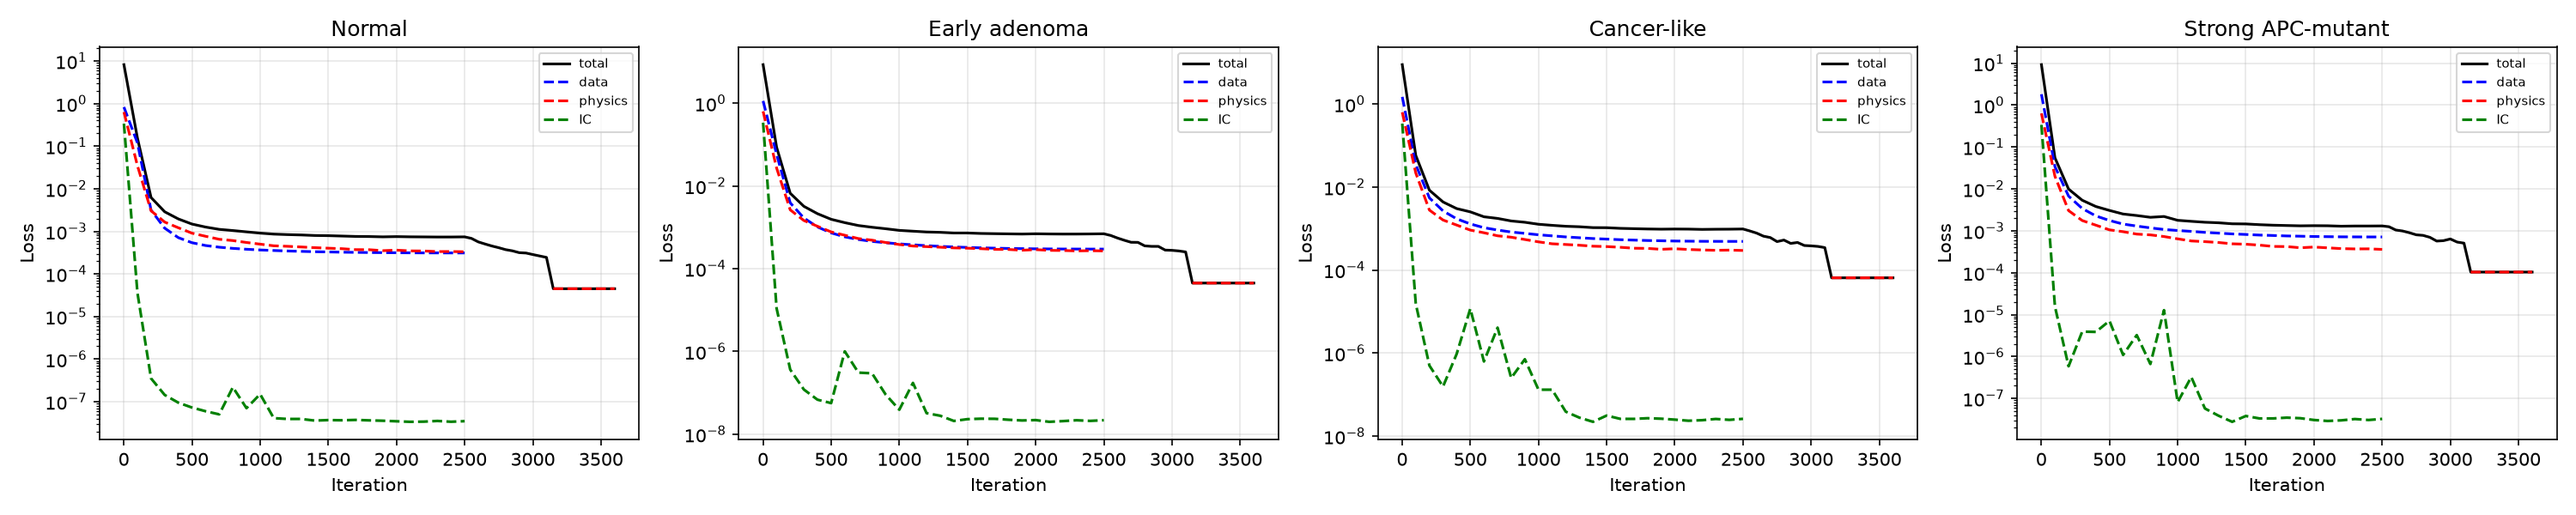
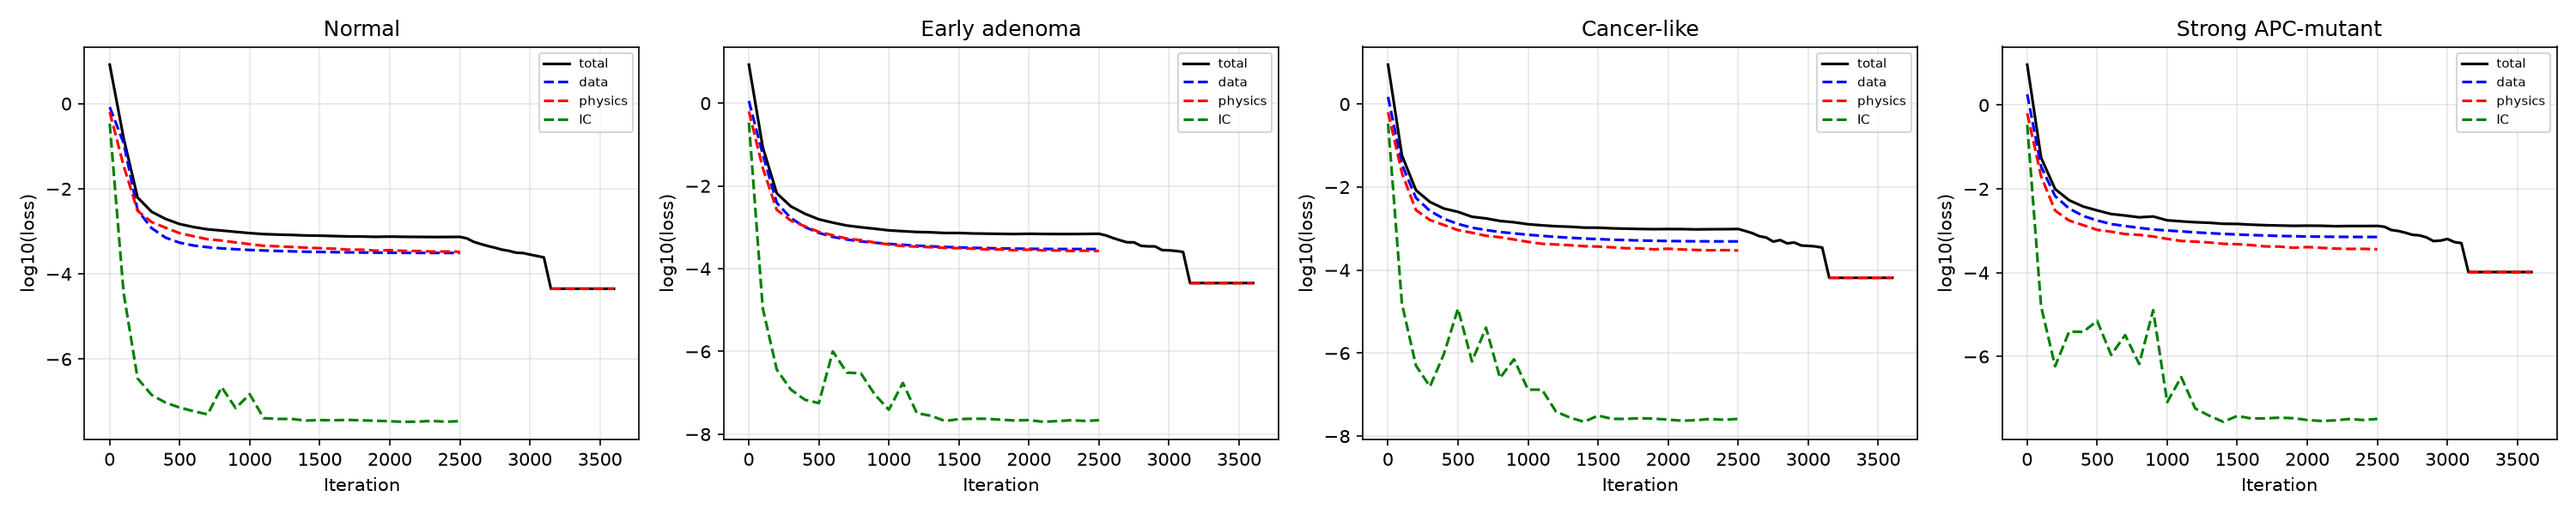
multicond-better: plot log10(loss) on linear axis + standalone re-plot entrypoint
plot_losses now shows log10(loss) with a linear ordinate (labels read
-1,-2,-3) instead of raw loss on a log-scaled axis. Add a __main__ that
reloads saved *_history.json and re-renders inv_losses.png without
retraining. Regenerated inv_losses.png for run 20260701_052831.

diff --git a/PINN-inverse-multicond-better/plotting.py b/PINN-inverse-multicond-better/plotting.py
@@ -163,14 +163,21 @@ def plot_param_error(all_hist, true_params):
 
 
 def plot_losses(all_hist):
+    """log10(loss) on a LINEAR y-axis (tick labels read -1, -2, -3 ...),
+    rather than the raw loss on a log-scaled axis. Same information, but the
+    ordinate is literally log(loss) as requested."""
+    def _log10(x):
+        # guard against zeros/negatives in the recorded losses
+        return np.log10(np.clip(np.asarray(x, dtype=float), 1e-300, None))
+
     n = len(all_hist)
     fig, axes = plt.subplots(1, n, figsize=(5*n, 4), squeeze=False)
     for ax, (name, h) in zip(axes[0], all_hist.items()):
-        ax.semilogy(h["epoch"], h["loss"], "k-",  label="total")
-        ax.semilogy(h["epoch"], h["Ld"],   "b--", label="data")
-        ax.semilogy(h["epoch"], h["Lp"],   "r--", label="physics")
-        ax.semilogy(h["epoch"], h["Lic"],  "g--", label="IC")
-        ax.set_xlabel("Iteration"); ax.set_ylabel("Loss")
+        ax.plot(h["epoch"], _log10(h["loss"]), "k-",  label="total")
+        ax.plot(h["epoch"], _log10(h["Ld"]),   "b--", label="data")
+        ax.plot(h["epoch"], _log10(h["Lp"]),   "r--", label="physics")
+        ax.plot(h["epoch"], _log10(h["Lic"]),  "g--", label="IC")
+        ax.set_xlabel("Iteration"); ax.set_ylabel("log10(loss)")
         ax.set_title(name); ax.legend(fontsize=7); ax.grid(True, alpha=0.3)
     fig.tight_layout(); fig.savefig("inv_losses.png", dpi=150)
     plt.close(fig)
@@ -346,3 +353,29 @@ def report_identifiability(recovered, true_params, sens, out_dir="."):
     print(f"wrote {os.path.join(out_dir, 'identifiability.csv')} "
           f"and identifiability.json")
     return rows
+
+
+def _load_histories(run_dir):
+    """Reload {safe}_history.json for every regime from a finished run dir."""
+    all_hist = {}
+    for name in REGIMES:
+        safe = name.replace(" ", "_").replace("/", "_")
+        path = os.path.join(run_dir, f"{safe}_history.json")
+        with open(path) as fh:
+            all_hist[name] = json.load(fh)
+    return all_hist
+
+
+if __name__ == "__main__":
+    # Re-plot the loss curves from a saved run WITHOUT retraining, e.g.:
+    #   python3 plotting.py runs/20260701_052831
+    import sys
+    run_dir = sys.argv[1] if len(sys.argv) > 1 else "."
+    all_hist = _load_histories(run_dir)
+    cwd = os.getcwd()
+    os.chdir(run_dir)                 # savefig uses relative paths
+    try:
+        plot_losses(all_hist)        # writes inv_losses.png (log10 y-axis)
+    finally:
+        os.chdir(cwd)
+    print(f"wrote {os.path.join(run_dir, 'inv_losses.png')}")
